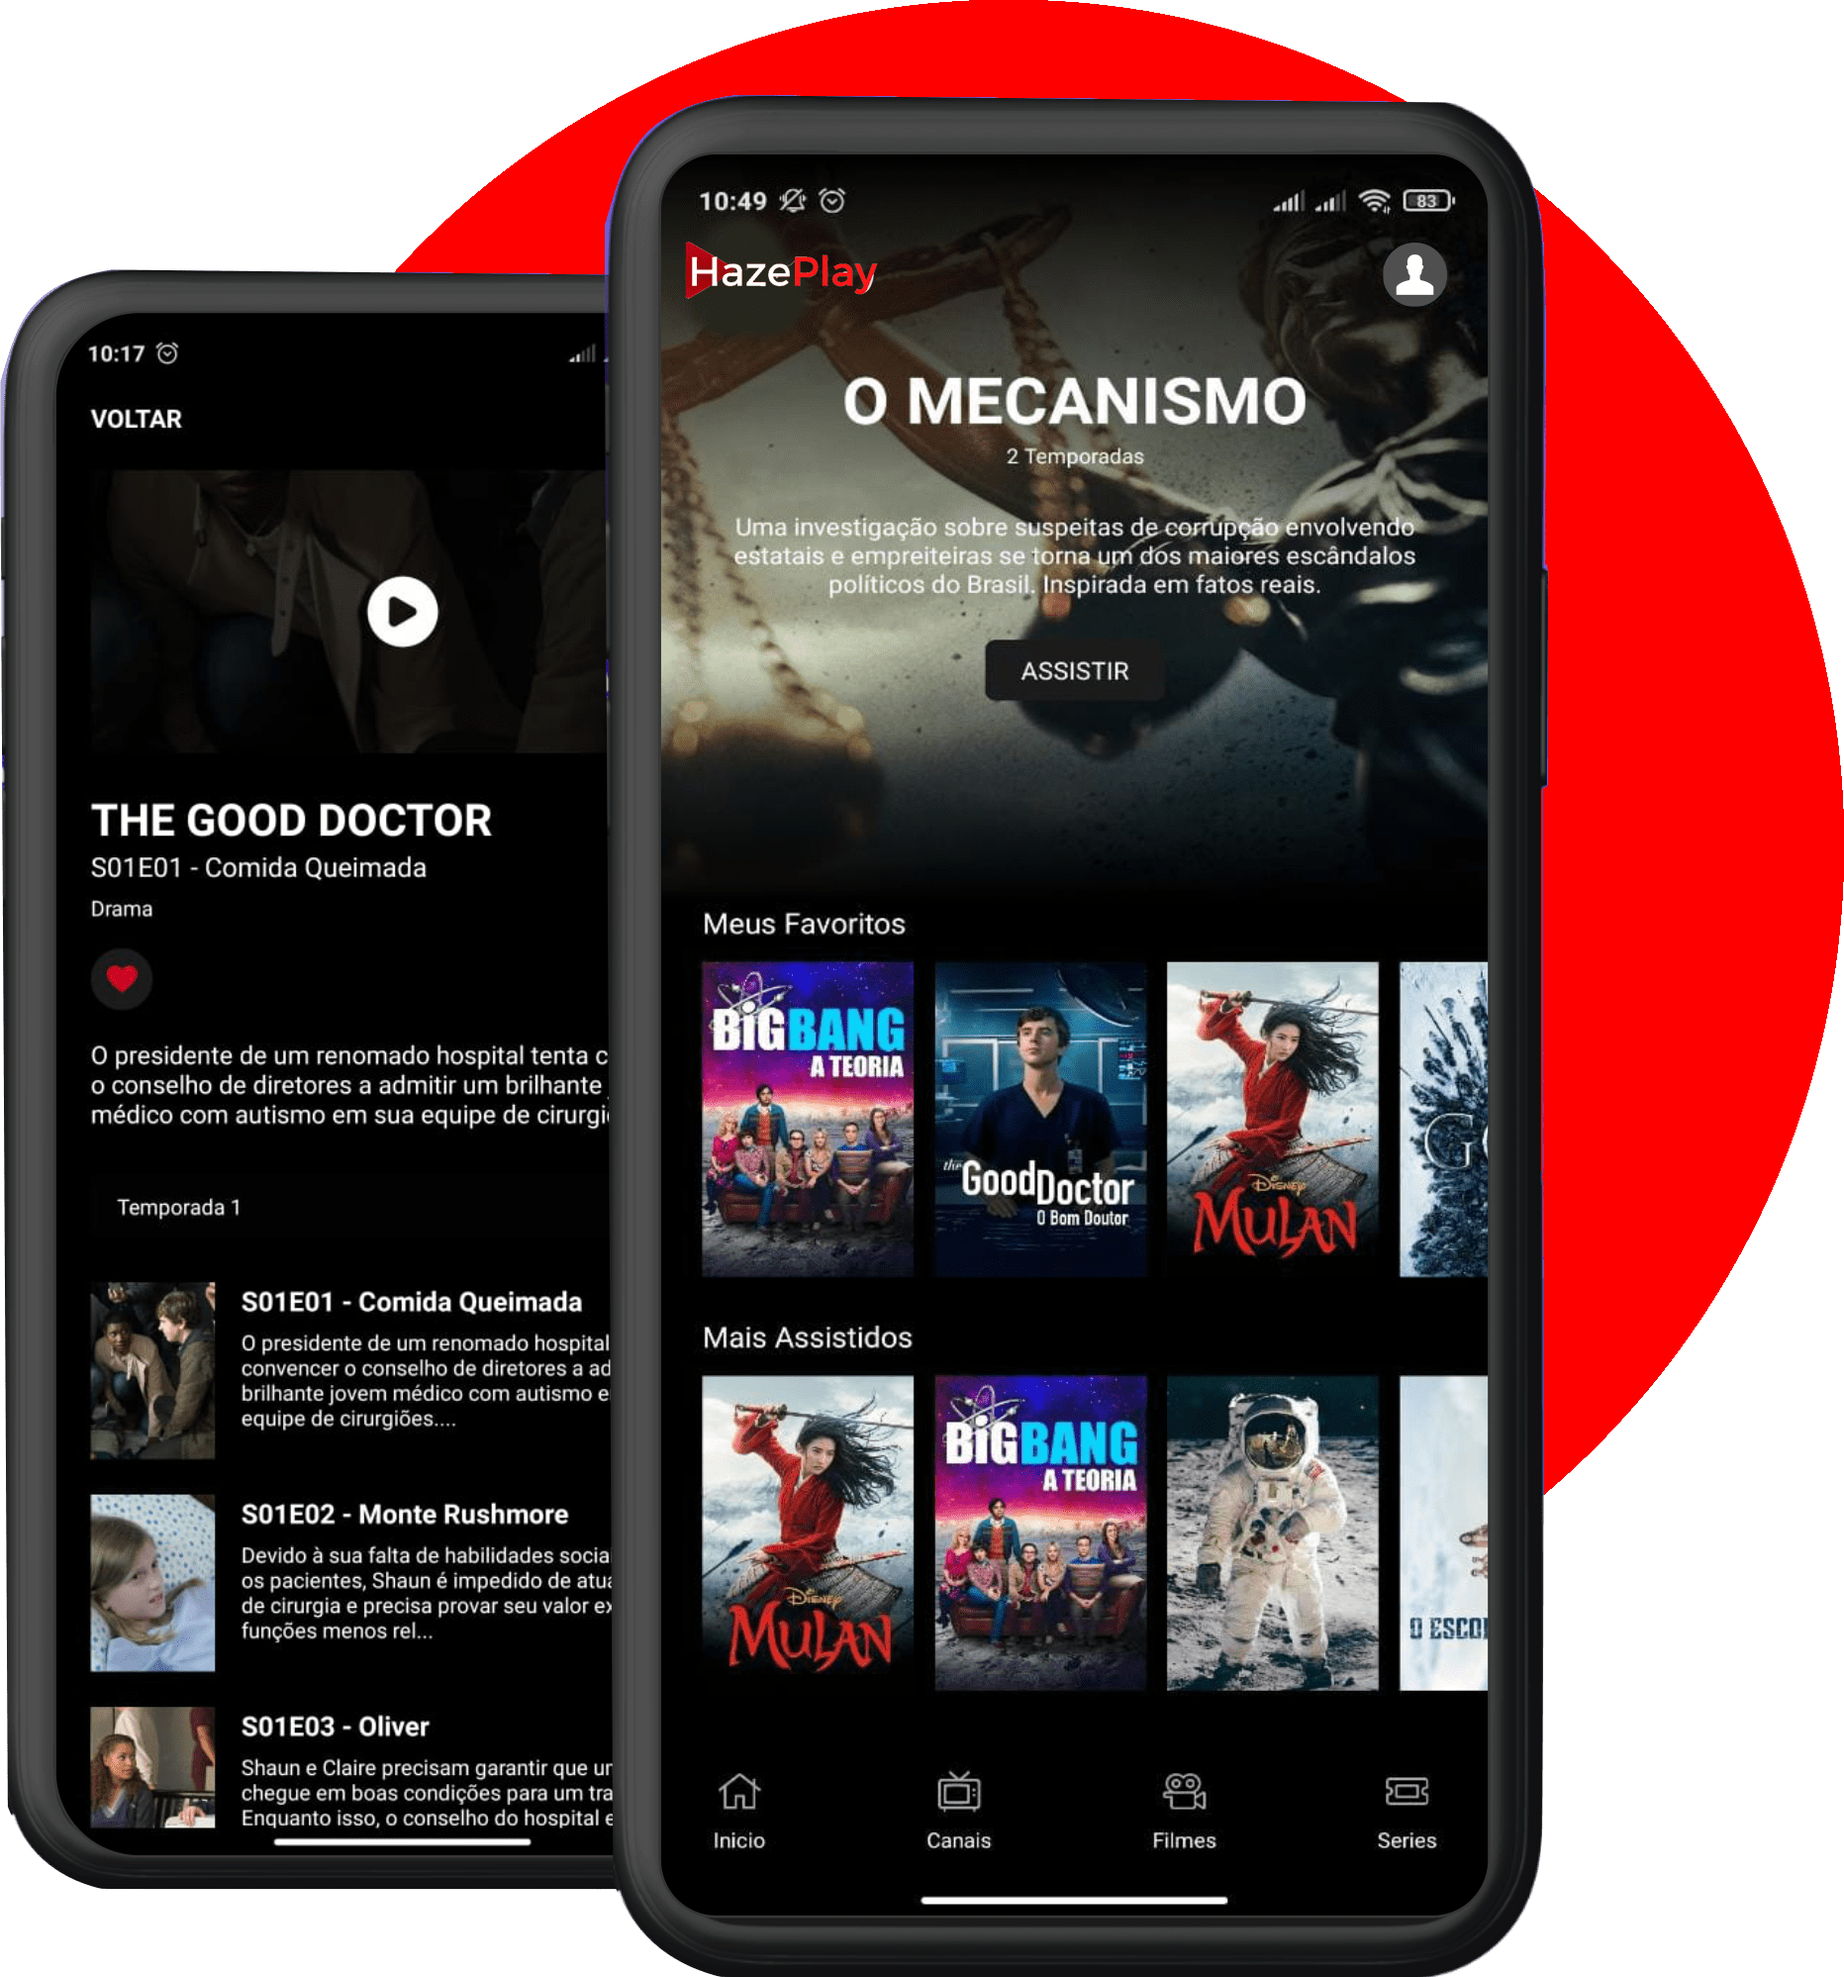
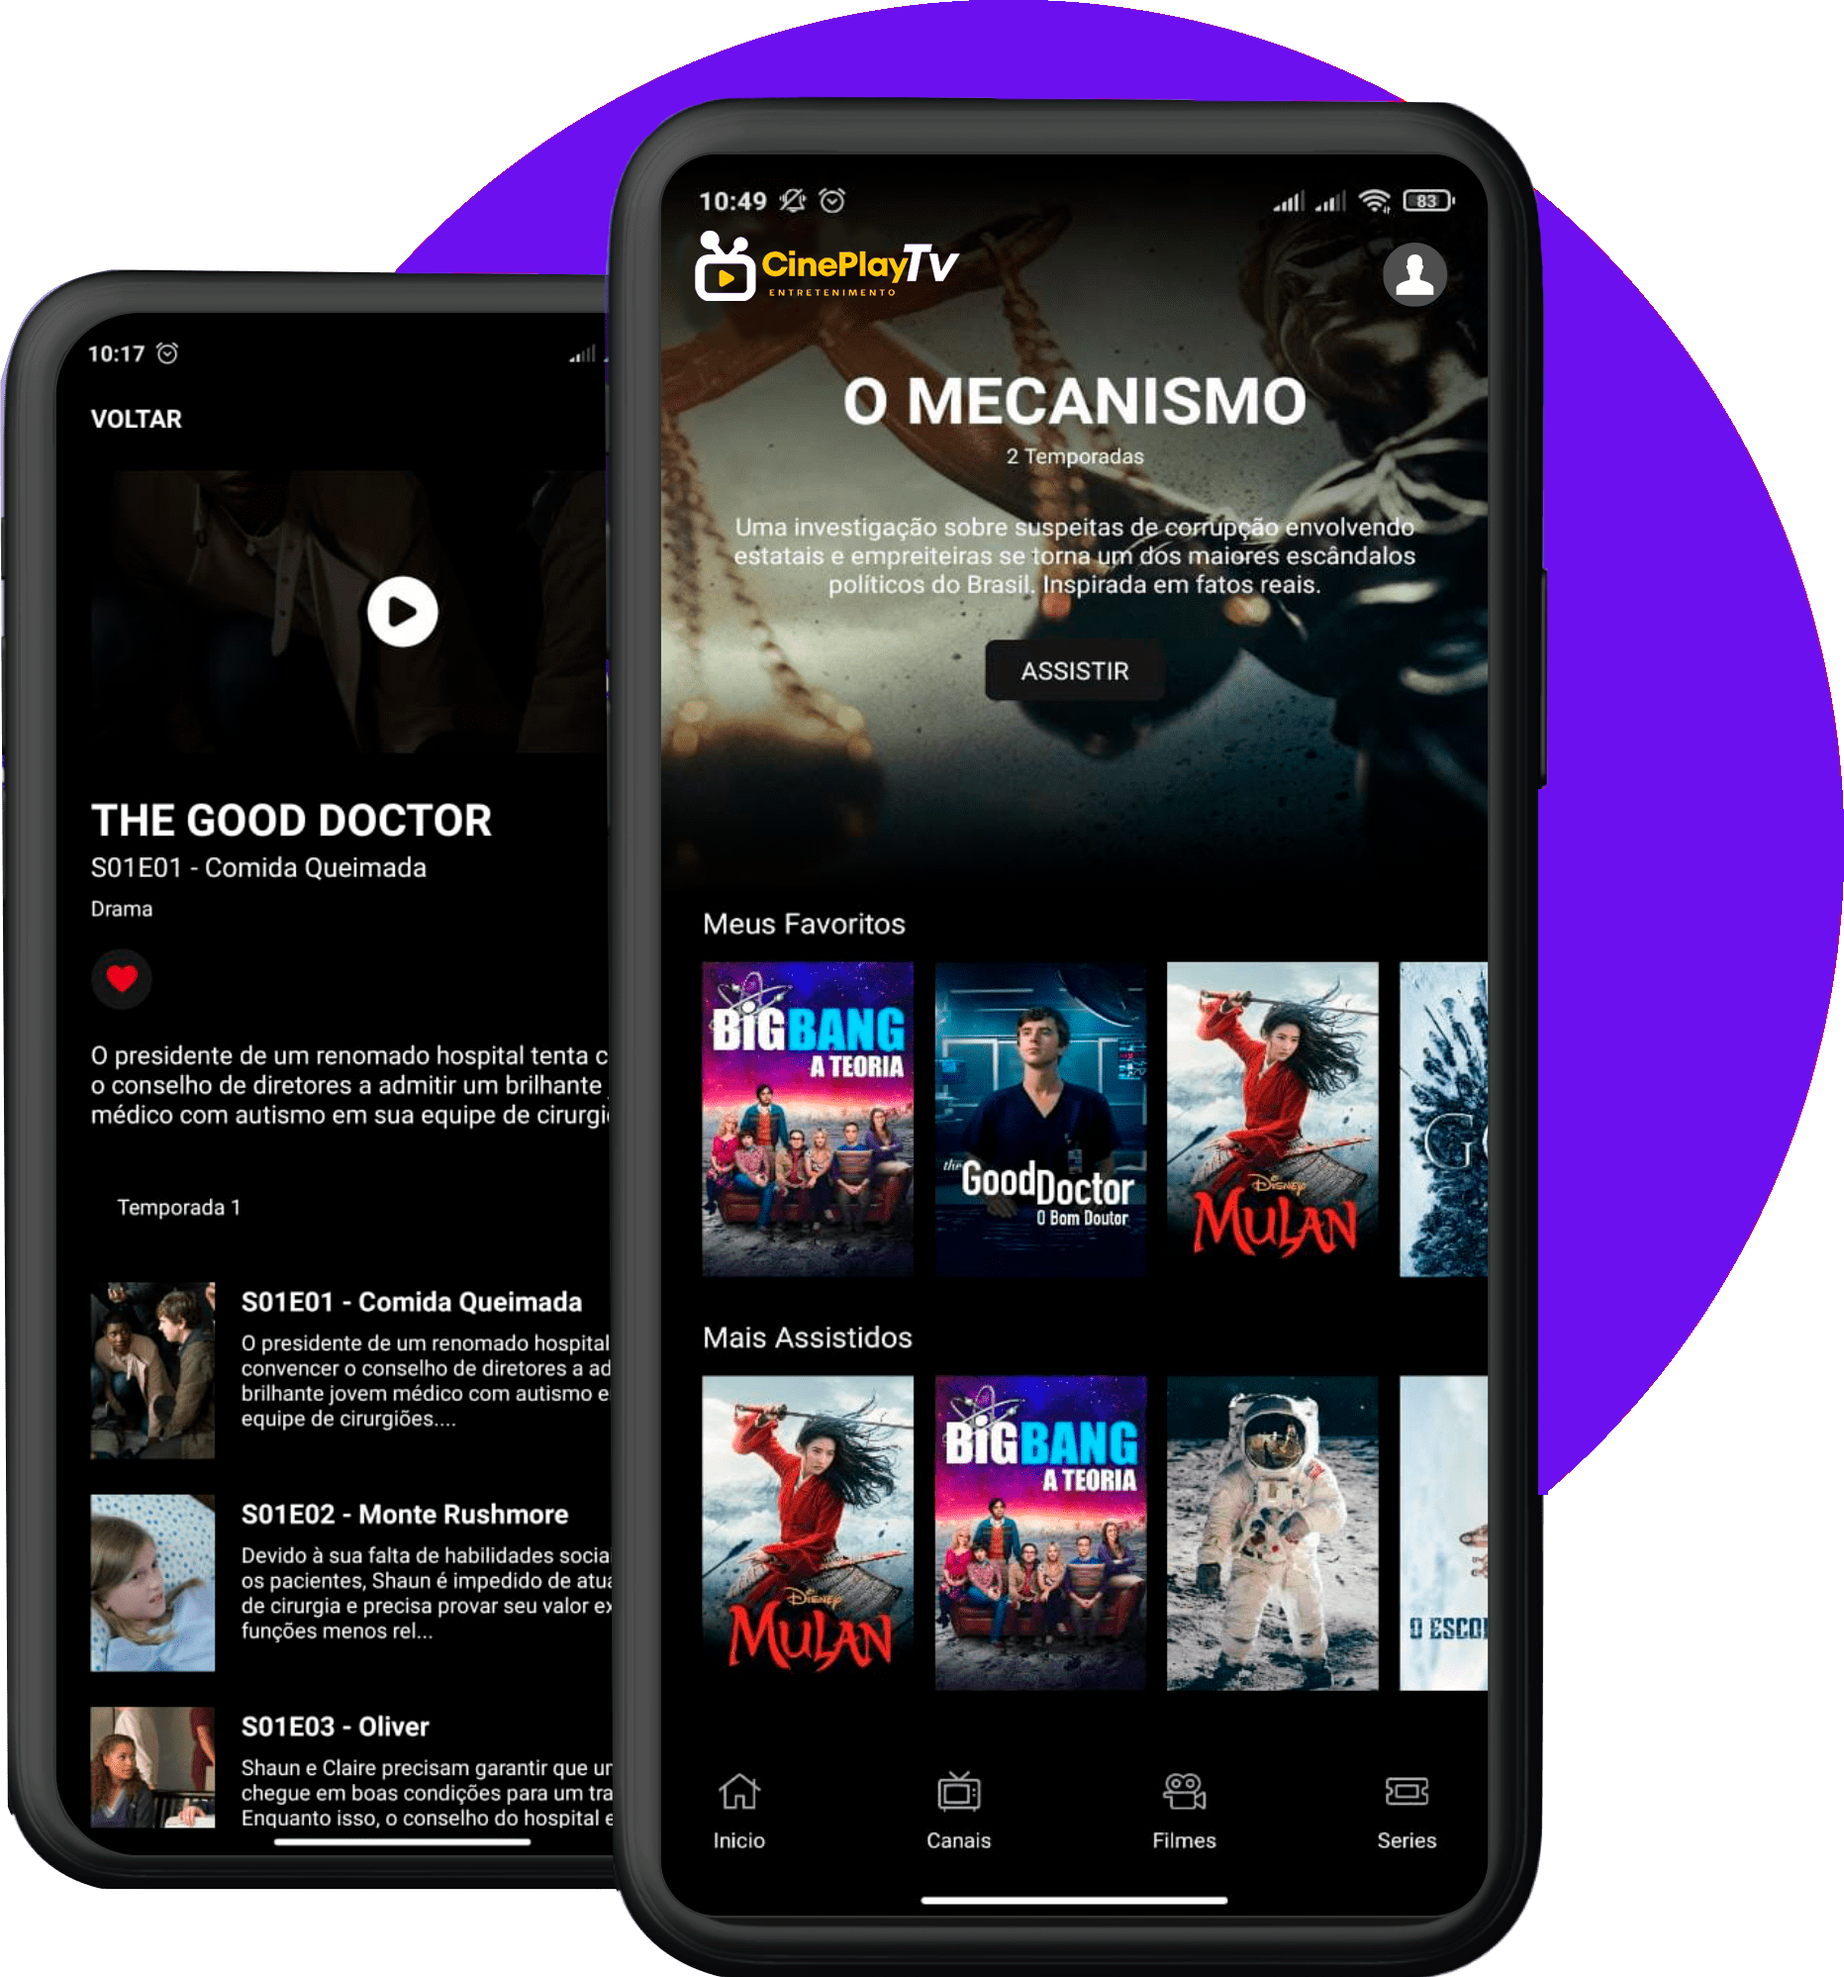
Add files via upload

diff --git a/wp-content/uploads/elementor/css/post-717411741.css b/wp-content/uploads/elementor/css/post-717411741.css
@@ -1,1 +1,1 @@
-.elementor-kit-7{--e-global-color-primary:#6EC1E4;--e-global-color-secondary:#54595F;--e-global-color-text:#7A7A7A;--e-global-color-accent:#61CE70;--e-global-color-c975fe3:#F4F4F4;--e-global-color-46e10b7:#030304;--e-global-color-335476e:#ff0000;--e-global-color-d0a6618:#a01818;--e-global-color-056eebd:#151518;--e-global-color-8f64ec5:#1C1B1B;--e-global-color-11d43d0:#D4D4D4;--e-global-color-da57db1:#f91d1d78;--e-global-color-eab4dc8:#151330;--e-global-color-100af63:#1F1B41;--e-global-typography-primary-font-family:"Montserrat";--e-global-typography-primary-font-weight:600;--e-global-typography-secondary-font-family:"Montserrat";--e-global-typography-secondary-font-size:46px;--e-global-typography-secondary-font-weight:600;--e-global-typography-secondary-line-height:1.15em;--e-global-typography-text-font-family:"Work Sans";--e-global-typography-text-font-size:16px;--e-global-typography-text-font-weight:300;--e-global-typography-accent-font-family:"Montserrat";--e-global-typography-accent-font-size:16px;--e-global-typography-accent-font-weight:400;--e-global-typography-d5cf122-font-family:"Work Sans";--e-global-typography-d5cf122-font-size:18px;--e-global-typography-d5cf122-font-weight:300;--e-global-typography-4dab1ce-font-family:"Montserrat";--e-global-typography-4dab1ce-font-size:18px;--e-global-typography-4dab1ce-font-weight:600;--e-global-typography-dee4241-font-family:"Work Sans";--e-global-typography-dee4241-font-size:16px;--e-global-typography-dee4241-font-weight:400;--e-global-typography-45d4cf1-font-family:"Montserrat";--e-global-typography-45d4cf1-font-size:60px;--e-global-typography-45d4cf1-font-weight:600;--e-global-typography-45d4cf1-text-transform:uppercase;--e-global-typography-45d4cf1-line-height:1em;--e-global-typography-018cce8-font-family:"Montserrat";--e-global-typography-018cce8-font-size:20px;--e-global-typography-018cce8-font-weight:400;--e-global-typography-8489a30-font-family:"Montserrat";--e-global-typography-8489a30-font-size:24px;--e-global-typography-8489a30-font-weight:600;--e-global-typography-8489a30-line-height:1.4em;--e-global-typography-085461f-font-family:"Work Sans";--e-global-typography-085461f-font-size:16px;--e-global-typography-085461f-font-weight:300;--e-global-typography-085461f-line-height:1.7em;--e-global-typography-67671d6-font-family:"Montserrat";--e-global-typography-67671d6-font-size:20px;--e-global-typography-67671d6-font-weight:400;--e-global-typography-67671d6-font-style:italic;color:var( --e-global-color-11d43d0 );font-family:"Work Sans", Sans-serif;font-size:16px;font-weight:300;background-color:var( --e-global-color-056eebd );}.elementor-kit-7 a{color:var( --e-global-color-335476e );}.elementor-kit-7 a:hover{color:var( --e-global-color-d0a6618 );font-family:"Work Sans", Sans-serif;}.elementor-kit-7 h1{color:var( --e-global-color-c975fe3 );font-family:"Montserrat", Sans-serif;font-size:60px;}.elementor-kit-7 h2{color:var( --e-global-color-c975fe3 );font-family:"Montserrat", Sans-serif;font-size:46px;font-weight:600;}.elementor-kit-7 h3{color:var( --e-global-color-c975fe3 );font-family:"Montserrat", Sans-serif;font-size:24px;font-weight:600;}.elementor-kit-7 h4{color:var( --e-global-color-335476e );font-family:"Montserrat", Sans-serif;font-size:18px;font-weight:600;}.elementor-kit-7 h5{color:var( --e-global-color-c975fe3 );font-family:"Work Sans", Sans-serif;}.elementor-kit-7 h6{color:var( --e-global-color-c975fe3 );font-family:"Work Sans", Sans-serif;font-size:18px;}.elementor-kit-7 button,.elementor-kit-7 input[type="button"],.elementor-kit-7 input[type="submit"],.elementor-kit-7 .elementor-button{font-family:"Work Sans", Sans-serif;font-size:14px;font-weight:400;text-transform:uppercase;letter-spacing:1.5px;color:var( --e-global-color-c975fe3 );background-color:var( --e-global-color-335476e );border-style:solid;border-width:0px 0px 0px 0px;border-radius:50px 50px 50px 50px;padding:20px 32px 20px 32px;}.elementor-kit-7 button:hover,.elementor-kit-7 button:focus,.elementor-kit-7 input[type="button"]:hover,.elementor-kit-7 input[type="button"]:focus,.elementor-kit-7 input[type="submit"]:hover,.elementor-kit-7 input[type="submit"]:focus,.elementor-kit-7 .elementor-button:hover,.elementor-kit-7 .elementor-button:focus{color:var( --e-global-color-c975fe3 );background-color:var( --e-global-color-da57db1 );border-style:solid;border-width:0px 0px 0px 0px;border-radius:50px 50px 50px 50px;}.elementor-kit-7 label{color:var( --e-global-color-c975fe3 );font-size:18px;font-weight:400;}.elementor-kit-7 input:not([type="button"]):not([type="submit"]),.elementor-kit-7 textarea,.elementor-kit-7 .elementor-field-textual{font-family:"Work Sans", Sans-serif;font-size:16px;font-weight:300;color:var( --e-global-color-11d43d0 );background-color:var( --e-global-color-056eebd );border-style:solid;border-width:0px 0px 2px 0px;border-color:var( --e-global-color-335476e );border-radius:0px 0px 0px 0px;padding:0px 0px 0px 0px;}.elementor-kit-7 input:focus:not([type="button"]):not([type="submit"]),.elementor-kit-7 textarea:focus,.elementor-kit-7 .elementor-field-textual:focus{color:var( --e-global-color-11d43d0 );background-color:var( --e-global-color-056eebd );border-style:solid;border-color:var( --e-global-color-d0a6618 );}.elementor-section.elementor-section-boxed > .elementor-container{max-width:1140px;}.elementor-widget:not(:last-child){margin-bottom:20px;}{}h1.entry-title{display:var(--page-title-display);}@media(max-width:1024px){.elementor-kit-7{--e-global-typography-018cce8-font-size:16px;}.elementor-section.elementor-section-boxed > .elementor-container{max-width:1024px;}}@media(max-width:767px){.elementor-kit-7{--e-global-typography-secondary-font-size:30px;--e-global-typography-text-font-size:14px;--e-global-typography-d5cf122-font-size:16px;--e-global-typography-45d4cf1-font-size:40px;--e-global-typography-018cce8-font-size:14px;}.elementor-section.elementor-section-boxed > .elementor-container{max-width:767px;}}
+.elementor-kit-7{--e-global-color-primary:#6EC1E4;--e-global-color-secondary:#54595F;--e-global-color-text:#7A7A7A;--e-global-color-accent:#61CE70;--e-global-color-c975fe3:#F4F4F4;--e-global-color-46e10b7:#030304;--e-global-color-335476e:#8347ff;--e-global-color-d0a6618:#a01818;--e-global-color-056eebd:#151518;--e-global-color-8f64ec5:#1C1B1B;--e-global-color-11d43d0:#D4D4D4;--e-global-color-da57db1:#f91d1d78;--e-global-color-eab4dc8:#151330;--e-global-color-100af63:#1F1B41;--e-global-typography-primary-font-family:"Montserrat";--e-global-typography-primary-font-weight:600;--e-global-typography-secondary-font-family:"Montserrat";--e-global-typography-secondary-font-size:46px;--e-global-typography-secondary-font-weight:600;--e-global-typography-secondary-line-height:1.15em;--e-global-typography-text-font-family:"Work Sans";--e-global-typography-text-font-size:16px;--e-global-typography-text-font-weight:300;--e-global-typography-accent-font-family:"Montserrat";--e-global-typography-accent-font-size:16px;--e-global-typography-accent-font-weight:400;--e-global-typography-d5cf122-font-family:"Work Sans";--e-global-typography-d5cf122-font-size:18px;--e-global-typography-d5cf122-font-weight:300;--e-global-typography-4dab1ce-font-family:"Montserrat";--e-global-typography-4dab1ce-font-size:18px;--e-global-typography-4dab1ce-font-weight:600;--e-global-typography-dee4241-font-family:"Work Sans";--e-global-typography-dee4241-font-size:16px;--e-global-typography-dee4241-font-weight:400;--e-global-typography-45d4cf1-font-family:"Montserrat";--e-global-typography-45d4cf1-font-size:60px;--e-global-typography-45d4cf1-font-weight:600;--e-global-typography-45d4cf1-text-transform:uppercase;--e-global-typography-45d4cf1-line-height:1em;--e-global-typography-018cce8-font-family:"Montserrat";--e-global-typography-018cce8-font-size:20px;--e-global-typography-018cce8-font-weight:400;--e-global-typography-8489a30-font-family:"Montserrat";--e-global-typography-8489a30-font-size:24px;--e-global-typography-8489a30-font-weight:600;--e-global-typography-8489a30-line-height:1.4em;--e-global-typography-085461f-font-family:"Work Sans";--e-global-typography-085461f-font-size:16px;--e-global-typography-085461f-font-weight:300;--e-global-typography-085461f-line-height:1.7em;--e-global-typography-67671d6-font-family:"Montserrat";--e-global-typography-67671d6-font-size:20px;--e-global-typography-67671d6-font-weight:400;--e-global-typography-67671d6-font-style:italic;color:var( --e-global-color-11d43d0 );font-family:"Work Sans", Sans-serif;font-size:16px;font-weight:300;background-color:var( --e-global-color-056eebd );}.elementor-kit-7 a{color:var( --e-global-color-335476e );}.elementor-kit-7 a:hover{color:var( --e-global-color-d0a6618 );font-family:"Work Sans", Sans-serif;}.elementor-kit-7 h1{color:var( --e-global-color-c975fe3 );font-family:"Montserrat", Sans-serif;font-size:60px;}.elementor-kit-7 h2{color:var( --e-global-color-c975fe3 );font-family:"Montserrat", Sans-serif;font-size:46px;font-weight:600;}.elementor-kit-7 h3{color:var( --e-global-color-c975fe3 );font-family:"Montserrat", Sans-serif;font-size:24px;font-weight:600;}.elementor-kit-7 h4{color:var( --e-global-color-335476e );font-family:"Montserrat", Sans-serif;font-size:18px;font-weight:600;}.elementor-kit-7 h5{color:var( --e-global-color-c975fe3 );font-family:"Work Sans", Sans-serif;}.elementor-kit-7 h6{color:var( --e-global-color-c975fe3 );font-family:"Work Sans", Sans-serif;font-size:18px;}.elementor-kit-7 button,.elementor-kit-7 input[type="button"],.elementor-kit-7 input[type="submit"],.elementor-kit-7 .elementor-button{font-family:"Work Sans", Sans-serif;font-size:14px;font-weight:400;text-transform:uppercase;letter-spacing:1.5px;color:var( --e-global-color-c975fe3 );background-color:var( --e-global-color-335476e );border-style:solid;border-width:0px 0px 0px 0px;border-radius:50px 50px 50px 50px;padding:20px 32px 20px 32px;}.elementor-kit-7 button:hover,.elementor-kit-7 button:focus,.elementor-kit-7 input[type="button"]:hover,.elementor-kit-7 input[type="button"]:focus,.elementor-kit-7 input[type="submit"]:hover,.elementor-kit-7 input[type="submit"]:focus,.elementor-kit-7 .elementor-button:hover,.elementor-kit-7 .elementor-button:focus{color:var( --e-global-color-c975fe3 );background-color:var( --e-global-color-da57db1 );border-style:solid;border-width:0px 0px 0px 0px;border-radius:50px 50px 50px 50px;}.elementor-kit-7 label{color:var( --e-global-color-c975fe3 );font-size:18px;font-weight:400;}.elementor-kit-7 input:not([type="button"]):not([type="submit"]),.elementor-kit-7 textarea,.elementor-kit-7 .elementor-field-textual{font-family:"Work Sans", Sans-serif;font-size:16px;font-weight:300;color:var( --e-global-color-11d43d0 );background-color:var( --e-global-color-056eebd );border-style:solid;border-width:0px 0px 2px 0px;border-color:var( --e-global-color-335476e );border-radius:0px 0px 0px 0px;padding:0px 0px 0px 0px;}.elementor-kit-7 input:focus:not([type="button"]):not([type="submit"]),.elementor-kit-7 textarea:focus,.elementor-kit-7 .elementor-field-textual:focus{color:var( --e-global-color-11d43d0 );background-color:var( --e-global-color-056eebd );border-style:solid;border-color:var( --e-global-color-d0a6618 );}.elementor-section.elementor-section-boxed > .elementor-container{max-width:1140px;}.elementor-widget:not(:last-child){margin-bottom:20px;}{}h1.entry-title{display:var(--page-title-display);}@media(max-width:1024px){.elementor-kit-7{--e-global-typography-018cce8-font-size:16px;}.elementor-section.elementor-section-boxed > .elementor-container{max-width:1024px;}}@media(max-width:767px){.elementor-kit-7{--e-global-typography-secondary-font-size:30px;--e-global-typography-text-font-size:14px;--e-global-typography-d5cf122-font-size:16px;--e-global-typography-45d4cf1-font-size:40px;--e-global-typography-018cce8-font-size:14px;}.elementor-section.elementor-section-boxed > .elementor-container{max-width:767px;}}
